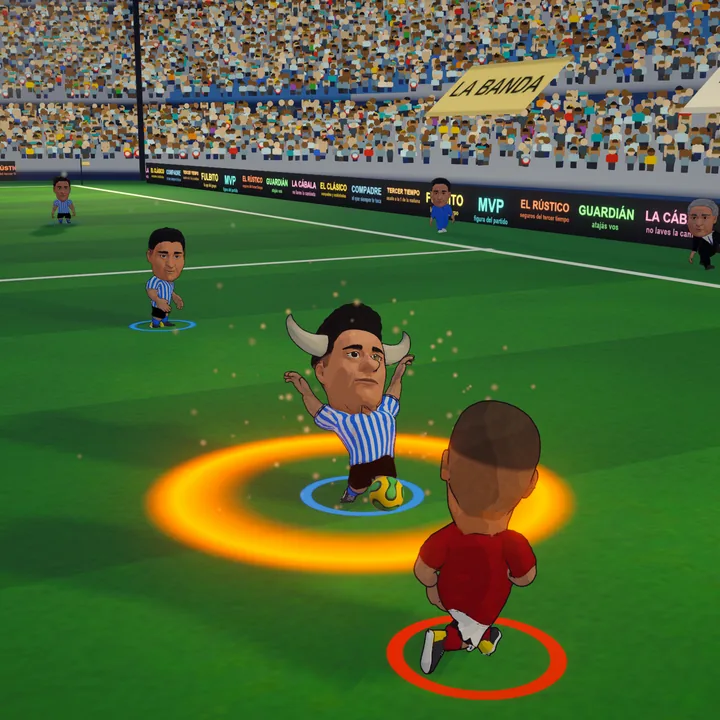
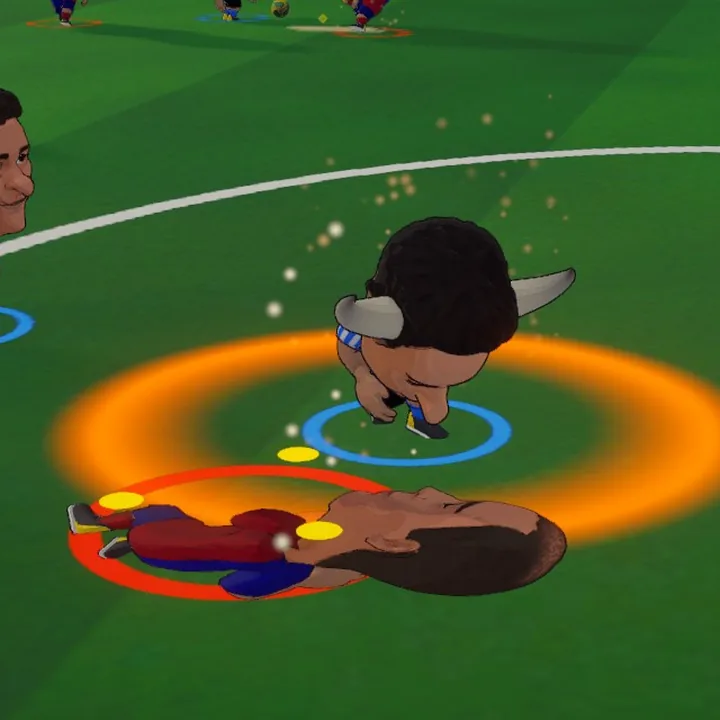
Fotos nuevas del juego: la embestida de El Toro (cabeza gacha y cuernos), el cañonazo con el cañón sólido y Trencinho sentado en la locomotora
- las seis imágenes de la sección de poderes llevan ?v=276 para que el navegador no muestre las viejas de caché

Claude-Session: https://claude.ai/code/session_01PVEoiR8wC71YpCM2bmHPkp

diff --git a/index.html b/index.html
@@ -188,14 +188,14 @@
           manejando hace lo suyo: una sola cosa, siempre la misma. Para sacar el martillo hay que agarrar al Vikingo.</p>
       </div>
 
-      <div class="banda banda--suelta rev" data-video="assets/video/firma.mp4">
-        <img class="banda__img" src="assets/img/martillazo.webp" alt="El Martillazo de El Vikingo: baja el martillo entre los rayos y un rival queda aplastado contra el pasto" width="1600" height="900" loading="lazy">
+      <div class="banda banda--suelta rev" data-video="assets/video/firma.mp4?v=276">
+        <img class="banda__img" src="assets/img/martillazo.webp?v=276" alt="El Martillazo de El Vikingo: baja el martillo entre los rayos y un rival queda aplastado contra el pasto" width="1600" height="900" loading="lazy">
         <p class="banda__pie">El Martillazo: baja el martillo, caen los rayos y el que estaba cerca termina en el piso.</p>
       </div>
 
       <div class="firmas">
         <article class="firma rev">
-          <img src="assets/firmas/el-vikingo.webp" alt="El Vikingo prendido fuego con el aro de su firma, pateando en el medio de la cancha" width="720" height="720" loading="lazy">
+          <img src="assets/firmas/el-vikingo.webp?v=276" alt="El Vikingo prendido fuego con el aro de su firma, pateando en el medio de la cancha" width="720" height="720" loading="lazy">
           <div class="firma__cuerpo">
             <h3 class="firma__nombre">El Martillazo</h3>
             <span class="firma__duenio">El Vikingo</span>
@@ -206,7 +206,7 @@
         </article>
 
         <article class="firma rev">
-          <img src="assets/firmas/el-toro.webp" alt="El Toro con los cuernos puestos y el aro de su firma encendido, con un rival encima" width="720" height="720" loading="lazy">
+          <img src="assets/firmas/el-toro.webp?v=276" alt="El Toro con los cuernos puestos y el aro de su firma encendido, con un rival encima" width="720" height="720" loading="lazy">
           <div class="firma__cuerpo">
             <h3 class="firma__nombre">La Embestida</h3>
             <span class="firma__duenio">El Toro · El Elefante</span>
@@ -216,7 +216,7 @@
         </article>
 
         <article class="firma rev">
-          <img src="assets/firmas/el-canonazo.webp" alt="Batigol junto al cañón pirata que acaba de disparar la pelota prendida fuego" width="720" height="720" loading="lazy">
+          <img src="assets/firmas/el-canonazo.webp?v=276" alt="Batigol junto al cañón pirata que acaba de disparar la pelota prendida fuego" width="720" height="720" loading="lazy">
           <div class="firma__cuerpo">
             <h3 class="firma__nombre">El Cañonazo</h3>
             <span class="firma__duenio">Batigol · Baby · Roberto Balístico · El Bombardero</span>
@@ -230,7 +230,7 @@
       <!-- 27-oct-2026: escenas sacadas del juego (MatchDirectorRafaga272, ver tools/build_assets.py SHOTS) -->
       <div class="poderes">
         <figure class="poder rev">
-          <img src="assets/img/poder-el-expreso.webp" alt="Trencinho arriba de su locomotora, que avanza por las vías y se lleva puesto al que esté adelante" width="960" height="540" loading="lazy">
+          <img src="assets/img/poder-el-expreso.webp?v=276" alt="Trencinho arriba de su locomotora, que avanza por las vías y se lleva puesto al que esté adelante" width="960" height="540" loading="lazy">
           <figcaption><b>El Expreso</b> · Trencinho</figcaption>
         </figure>
         <figure class="poder rev">
